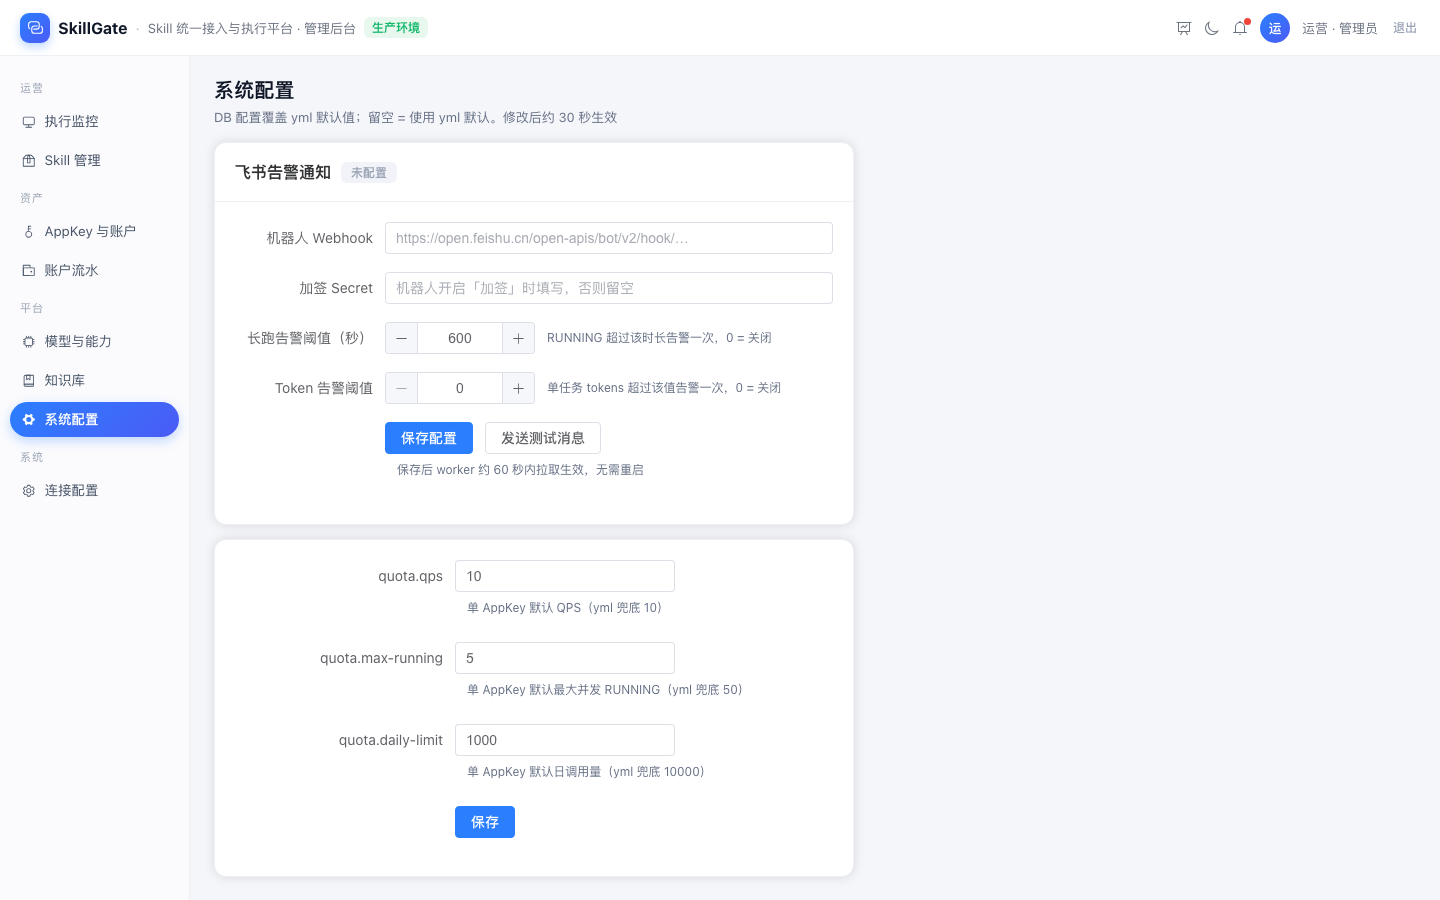
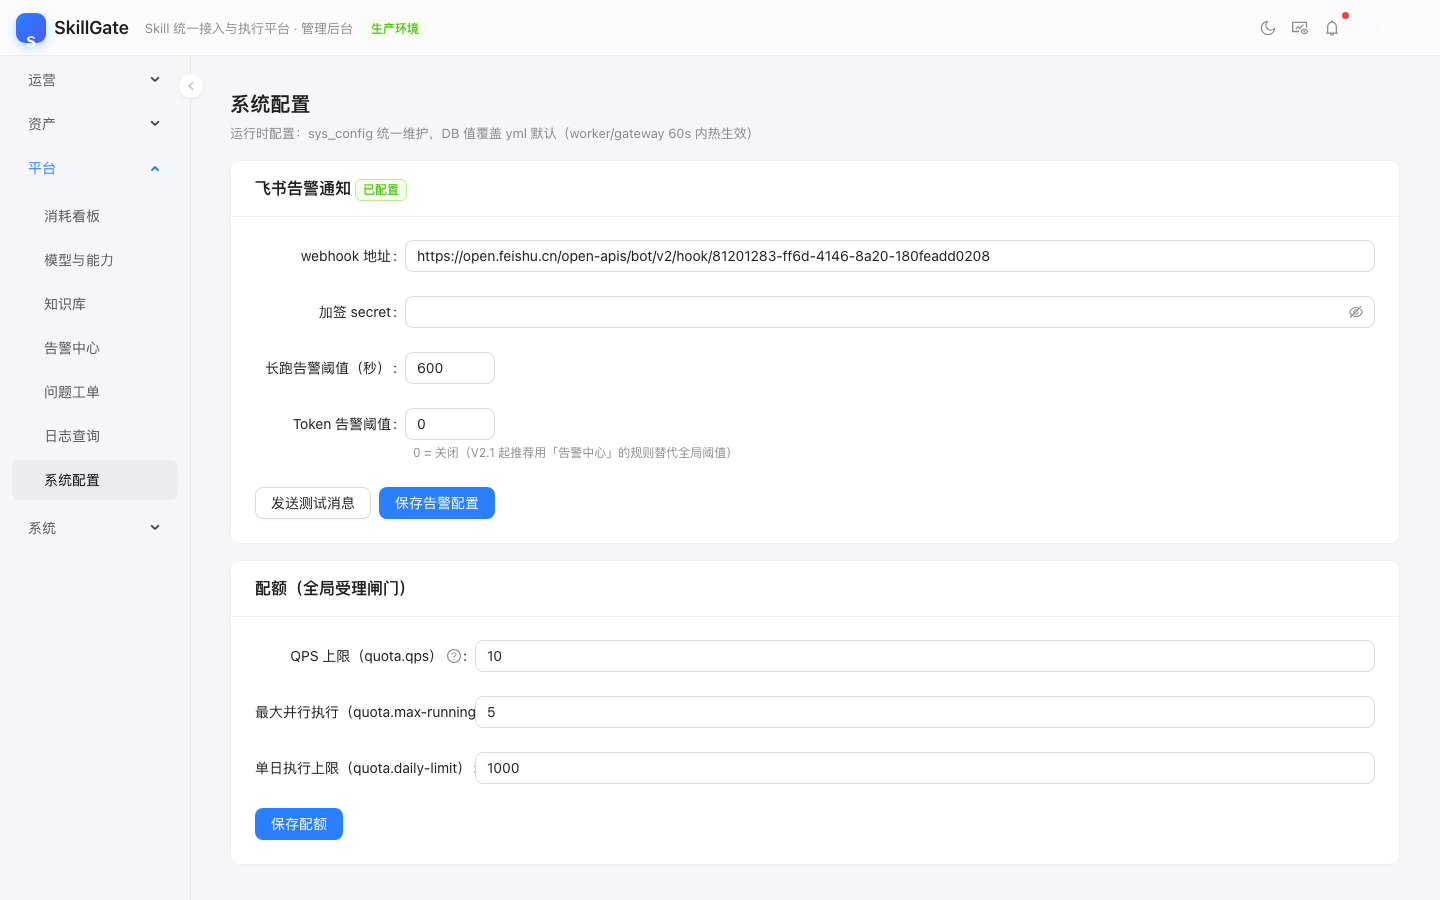
docs(readme): 页面预览更新为 React 版真实截图 + 新增功能矩阵表
- 新增截图：总览首页 / 消耗看板 / 问题工单 / 日志查询 / 模型能力 / 告警中心 / portal 四页（无头 Chrome 实截）
- 覆盖旧图：执行监控 / Skill / AppKeys / 系统配置 / 大屏 / 暗色 / portal 登录·充值
- README：预览区块标注 React 18 + AntD Pro 升级；新增管理后台 V2.3 功能矩阵表（九大模块能力清单）
- 附带：执行链路抽屉截图保留旧版（抽屉需交互打开，无头截取不到）

diff --git a/README.md b/README.md
@@ -17,15 +17,33 @@
 > 管理后台已升级 **React 18 + Ant Design 5（ProLayout）**，并新增「总览」首页（运行健康 + 消耗总览合并）、
 > 消耗看板、问题工单、日志查询、双层限流配额管理。下方截图为上一版界面（功能一致，布局已升级），最新界面截图待补充。
 
-| **执行监控 · 看板与列表** | **任务详情 · 执行链路流水线** |
+| **总览（运行健康 + 消耗总览）** | **消耗看板（预算 / 对账）** |
 |---|---|
+| ![总览](docs/images/screenshots/admin-overview.png) | ![消耗看板](docs/images/screenshots/admin-consumption.png) |
+| **执行监控 · 看板与任务列表** | **任务详情 · 执行链路流水线 / 模型调用明细** |
 | ![执行监控](docs/images/screenshots/admin-executions.png) | ![执行链路](docs/images/screenshots/admin-execution-drawer.png) |
-| **监控大屏（/wall 轮播流水线墙）** | **暗色模式** |
+| **问题工单（转单 / 流转闭环）** | **日志查询（埋点 + 事件链双源）** |
+| ![问题工单](docs/images/screenshots/admin-issues.png) | ![日志查询](docs/images/screenshots/admin-logs.png) |
+| **Skill 管理（版本审核 / 回滚 / 监控）** | **AppKey 与账户（双层限流配额）** |
+| ![Skill 管理](docs/images/screenshots/admin-skills.png) | ![AppKey](docs/images/screenshots/admin-appkeys.png) |
+| **监控大屏（/wall 恒深色）** | **暗色模式** |
 | ![监控大屏](docs/images/screenshots/admin-wall.png) | ![暗色模式](docs/images/screenshots/admin-dark.png) |
-| **告警配置（系统配置页）** | Skill 管理（管理后台） |
-| ![告警配置](docs/images/screenshots/admin-alert-config.png) | ![Skill 管理](docs/images/screenshots/admin-skills.png) |
 | 点数充值（用户端） | 登录 / 注册（用户端） |
 | ![点数充值](docs/images/screenshots/portal-recharge.png) | ![登录注册](docs/images/screenshots/portal-login.png) |
+
+### 管理后台功能矩阵（V2.3）
+
+| 模块 | 能力 |
+|---|---|
+| **总览（首页）** | 运行健康 KPI（队列 / 成功率 / P99 / 告警）+ 消耗总览 KPI（30 天点数 / tokens / 调用 / 失败成本）+ 日消耗趋势 + Skill 排行 + 快捷入口 |
+| **执行监控** | 任务筛选定位（状态 / Skill / 租户 / 仅看失败 / 排序）· 详情抽屉（时间线 / CI-CD 流程图 / 模型调用明细 / 产物预览）· 强制终止 / 重试 / 回调死信台 |
+| **Skill 管理** | 上传校验（CODE/AGENT 自动识别）· 版本审核（通过 / 驳回留痕）· 秒级回滚 · 上/下架二次确认 · 单 Skill 监控 Tab · 试运行 |
+| **消耗看板** | Token 与费用聚合（按 Skill / 模型 / 租户 / 按日）· 失败成本 · 任务对照（成本 vs 定价收入）· 月度预算与阈值告警 |
+| **告警中心 + 问题工单** | 阈值规则热生效 · 告警认领 · 一键转工单（归因 → 修复 → 验证 → 关单） |
+| **日志查询** | FREE 分发埋点（skill_io_log）+ 任务事件链（execution_event）跨运行检索 |
+| **AppKey 与账户** | 签发 / 轮换 / 入账 · **Key 级 + 租户汇总双层限流配额**（QPS / 并发 / 日量，实时生效） |
+| **模型与能力** | alias 路由 + 回退链 · 供应商目录下拉 · 连通性测试 · 费率（驱动消耗看板成本折算） |
+| **知识库 / 系统配置** | KB 文档入库 · 全局配额 · 飞书告警通道 |
 
 ### 管理后台功能矩阵（V2.3）
 
